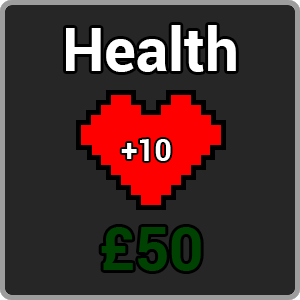
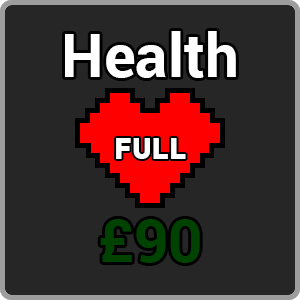
Shop screens updated.

Changed region(s): [[0.18, 0.06, 0.81, 0.93], [0.57, 0.06, 0.75, 0.18], [0.72, 0.12, 0.81, 0.18]]

diff --git a/TanksV1/src/Tanks/UIScreens/ShopScreen.java b/TanksV1/src/Tanks/UIScreens/ShopScreen.java
@@ -30,16 +30,16 @@ public class ShopScreen extends UIScreen
         float continueButtonHeight = 125;
 
         //Upgrade buttons - Top Row
-        addUpgradeButton(upgradeButtonWidth, upgradeButtonHeight, upgradeButtonWidth, upgradeButtonHeight, Textures.HEALTH, Textures.HEALTH_HOVER, Textures.HEALTH_CLICKED, player, "increase_health", 50);
-        addUpgradeButton((screenCenterX - upgradeButtonWidth), upgradeButtonHeight, upgradeButtonWidth, upgradeButtonHeight, Textures.MAXHEALTH, Textures.MAXHEALTH_HOVER, Textures.MAXHEALTH_CLICKED, player, "increase_maxhealth", 75);
-        addUpgradeButton((screenCenterX + upgradeButtonWidth), upgradeButtonHeight, upgradeButtonWidth, upgradeButtonHeight, Textures.ARMOUR, Textures.ARMOUR_HOVER, Textures.ARMOUR_CLICKED, player, "armour_upgrade", 200);
+        addUpgradeButton(upgradeButtonWidth, upgradeButtonHeight, upgradeButtonWidth, upgradeButtonHeight, Textures.MAXHEALTH, Textures.MAXHEALTH_HOVER, Textures.MAXHEALTH_CLICKED, player, "increase_maxhealth", 75);
+        addUpgradeButton((screenCenterX - upgradeButtonWidth), upgradeButtonHeight, upgradeButtonWidth, upgradeButtonHeight, Textures.HALFHEALTH, Textures.HALFHEALTH_HOVER, Textures.HALFHEALTH_CLICKED, player, "increase_halfhealth", 50);
+        addUpgradeButton((screenCenterX + upgradeButtonWidth), upgradeButtonHeight, upgradeButtonWidth, upgradeButtonHeight, Textures.HEALTH, Textures.HEALTH_HOVER, Textures.HEALTH_CLICKED, player, "increase_fullhealth", 90);
         addUpgradeButton((screenWidth - upgradeButtonWidth), upgradeButtonHeight, upgradeButtonWidth, upgradeButtonHeight, Textures.SPIKES, Textures.SPIKES_HOVER, Textures.SPIKES_CLICKED, player, "spikes_upgrade", 250);
 
         //Upgrade buttons - Second
         addUpgradeButton(upgradeButtonWidth, (upgradeButtonHeight * 2) + 100, upgradeButtonWidth, upgradeButtonHeight, Textures.MINIGUN, Textures.MINIGUN_HOVER, Textures.MINIGUN_CLICKED, player, "minigun_upgrade", 300);
         addUpgradeButton((screenCenterX - upgradeButtonWidth), (upgradeButtonHeight * 2) + 100, upgradeButtonWidth, upgradeButtonHeight, Textures.RAILGUN, Textures.RAILGUN_HOVER, Textures.RAILGUN_CLICKED, player, "railgun_upgrade", 300);
-        addUpgradeButton((screenCenterX + upgradeButtonWidth), (upgradeButtonHeight * 2) + 100, upgradeButtonWidth, upgradeButtonHeight, Textures.FUTURE, Textures.FUTURE_HOVER, Textures.FUTURE_CLICKED, player, "player_future", 500);
-        addUpgradeButton((screenWidth - upgradeButtonWidth), (upgradeButtonHeight * 2) + 100, upgradeButtonWidth, upgradeButtonHeight, Textures.SONIC, Textures.SONIC_HOVER, Textures.SONIC_CLICKED, player, "sonicmode_upgrade", 150);
+        addUpgradeButton((screenCenterX + upgradeButtonWidth), (upgradeButtonHeight * 2) + 100, upgradeButtonWidth, upgradeButtonHeight, Textures.SONIC, Textures.SONIC_HOVER, Textures.SONIC_CLICKED, player, "sonicmode_upgrade", 150);
+        addUpgradeButton((screenWidth - upgradeButtonWidth), (upgradeButtonHeight * 2) + 100, upgradeButtonWidth, upgradeButtonHeight, Textures.ARMOUR, Textures.ARMOUR_HOVER, Textures.ARMOUR_CLICKED, player, "armour_upgrade", 200);
 
         //Continue Button
         addLoadLevelButton(screenWidth - 250, screenHeight - 100, continueButtonWidth, continueButtonHeight, Textures.CONTINUE, Textures.CONTINUE_HOVER, Textures.CONTINUE_CLICKED);

diff --git a/TanksV1/src/Tanks/Objects/TankConfigs.java b/TanksV1/src/Tanks/Objects/TankConfigs.java
@@ -82,21 +82,21 @@ public class TankConfigs {
         tank.setRammingDamage(10);
     }
 
-    public void increase_health(Tank tank)
+    public void increase_halfhealth(Tank tank)
     {
-        if(tank.getStartingHealth() - tank.getHealth() >= 10)
+        if (tank.getHealth() + tank.getStartingHealth()/2 > tank.getStartingHealth())
         {
-            tank.increaseHealth(10);
+            tank.setHealth(tank.getStartingHealth());
         }
-        else if(tank.getStartingHealth() - tank.getHealth() < 10)
+        else
         {
-            tank.increaseHealth(tank.getStartingHealth() - tank.getHealth());
+            tank.increaseHealth(tank.getStartingHealth()/2);
         }
+    }
 
-        if(tank.getStartingHealth() - tank.getHealth() <= 0)
-        {
-            tank.increaseMoney(10);
-        }
+    public void increase_fullhealth(Tank tank)
+    {
+        tank.setHealth(tank.getStartingHealth());
     }
 
     public void increase_maxhealth(Tank tank)

diff --git a/TanksV1/src/Tanks/ObjectComponents/Textures.java b/TanksV1/src/Tanks/ObjectComponents/Textures.java
@@ -69,6 +69,10 @@ public class Textures {
 	public static String EXITGAME_HOVER = "TanksV1/Resources/Images/ExitGameHover.png";
 	public static String EXITGAME_CLICKED = "TanksV1/Resources/Images/ExitGameClicked.png";
 
+	public static String HALFHEALTH = "TanksV1/Resources/Images/HalfHealth.png";
+	public static String HALFHEALTH_HOVER = "TanksV1/Resources/Images/HalfHealthHover.png";
+	public static String HALFHEALTH_CLICKED = "TanksV1/Resources/Images/HalfHealthClicked.png";
+
 	public static String HEALTH = "TanksV1/Resources/Images/Health.png";
 	public static String HEALTH_HOVER = "TanksV1/Resources/Images/HealthHover.png";
 	public static String HEALTH_CLICKED = "TanksV1/Resources/Images/HealthClicked.png";
